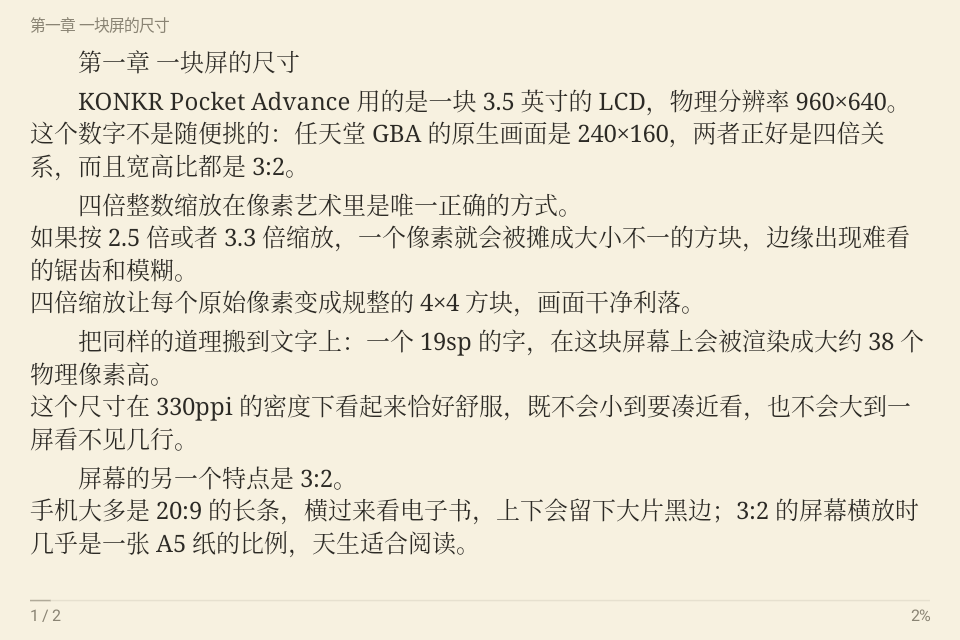
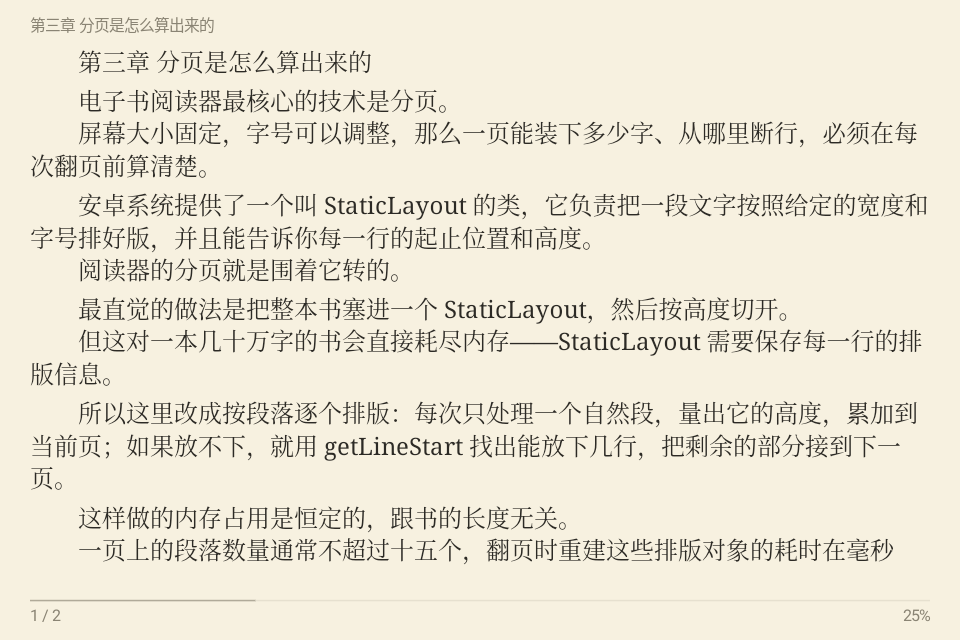
feat: 按句分段改为每句都缩进
原来只有段落首句缩进、后续句子顶格，改为每句首行都缩进两字，
更像「一句一段」。跨页续排的句中部分仍然不缩进，避免页面右缘出现阶梯状空白。

缩进判断从「块首」改为「句首」（块首或任一句末边界）。关键是排版与绘制必须
传同一个 indent 值 —— 否则算出的行高和实际绘制不一致，整页会错位，
所以 buildLayout 增加 indent 参数，PageView 绘制时传 item.indent。

Changed region(s): [[0.0312, 0.0312, 0.9688, 0.875], [0.9375, 0.9375, 0.9688, 0.9688]]

diff --git a/app/src/main/java/com/kpa/reader/doc/LayoutEngine.kt b/app/src/main/java/com/kpa/reader/doc/LayoutEngine.kt
@@ -98,19 +98,23 @@ class LayoutEngine(
      *
      * 按句分段时每句只排到自己的句末 —— 否则同一段里的句子会被整段重排一遍、
      * 在页面上叠着画出来。
+     *
+     * [indent] 决定首行是否缩进两字。**排版和绘制必须传同一个值**，
+     * 否则算出来的行高和实际画出来的对不上，页面会错位。
      */
     fun buildLayout(
         style: Int,
         blockStart: Int,
         blockEnd: Int,
         fromChar: Int,
-        toChar: Int = -1
+        toChar: Int = -1,
+        indent: Boolean = fromChar == 0
     ): StaticLayout {
         val s = (blockStart + fromChar).coerceIn(0, text.length)
         val rawEnd = if (toChar >= 0) blockStart + toChar else blockEnd
         val e = rawEnd.coerceIn(s, text.length)
         val paint = paintFor(style)
-        val cs: CharSequence = if (fromChar == 0 && style == Block.BODY && indentPx > 0.5f) {
+        val cs: CharSequence = if (indent && style == Block.BODY && indentPx > 0.5f) {
             SpannableString(text.substring(s, e)).apply {
                 if (length > 0) {
                     setSpan(
@@ -193,7 +197,10 @@ class LayoutEngine(
             }
             curEnd = curEnd.coerceIn(charIn + 1, blockLen)
 
-            val layout = buildLayout(b.style, b.start, b.end, charIn, curEnd)
+            // 句首（块首，或某个句末边界）才缩进；跨页续排的句中不缩进
+            val indentHere = (charIn == 0 || segEnds.any { it == charIn }) && b.style == Block.BODY
+
+            val layout = buildLayout(b.style, b.start, b.end, charIn, curEnd, indentHere)
             // 同一段内的后续句子紧接着上一句排，不加段间距
             val gap = if (items.isEmpty() || charIn > 0) 0f else gapBefore(b.style)
             val need = layout.height + gap
@@ -201,7 +208,7 @@ class LayoutEngine(
             val after = if (isLastSeg) gapAfter(b.style) else 0f
 
             if (y + need + after <= height) {
-                items.add(Item.TextSeg(bi, charIn, curEnd, charIn == 0 && b.style == Block.BODY, b.style, (y + gap).toInt()))
+                items.add(Item.TextSeg(bi, charIn, curEnd, indentHere, b.style, (y + gap).toInt()))
                 y += need + after
                 if (isLastSeg) { bi++; charIn = 0 } else { charIn = curEnd }
                 continue
@@ -216,7 +223,7 @@ class LayoutEngine(
             }
 
             if (fit >= layout.lineCount) {
-                items.add(Item.TextSeg(bi, charIn, curEnd, charIn == 0 && b.style == Block.BODY, b.style, (y + gap).toInt()))
+                items.add(Item.TextSeg(bi, charIn, curEnd, indentHere, b.style, (y + gap).toInt()))
                 y += need + after
                 if (isLastSeg) { bi++; charIn = 0 } else { charIn = curEnd }
                 continue
@@ -227,7 +234,7 @@ class LayoutEngine(
                 flush(bi, charIn)
                 continue
             }
-            items.add(Item.TextSeg(bi, charIn, charIn + cut, charIn == 0 && b.style == Block.BODY, b.style, (y + gap).toInt()))
+            items.add(Item.TextSeg(bi, charIn, charIn + cut, indentHere, b.style, (y + gap).toInt()))
             flush(bi, charIn + cut)
             charIn += cut
         }

diff --git a/app/src/main/java/com/kpa/reader/ui/PageView.kt b/app/src/main/java/com/kpa/reader/ui/PageView.kt
@@ -271,9 +271,9 @@ class PageView @JvmOverloads constructor(
             when (item) {
                 is LayoutEngine.Item.TextSeg -> {
                     val b = d.blocks.getOrNull(item.blockIndex) ?: continue
-                    // 必须带上 item.to：按句分段时同一块会被切成多段，
-                    // 只按块边界建 layout 会把整段重画在每一段上
-                    val layout = e.buildLayout(item.style, b.start, b.end, item.from, item.to)
+                    // 必须带上 item.to 和 item.indent：按句分段时同一块会被切成多段，
+                    // 只按块边界建 layout 会把整段重画在每一段上；缩进也必须和排版时一致
+                    val layout = e.buildLayout(item.style, b.start, b.end, item.from, item.to, item.indent)
                     texts.add(Rendered(layout, item.y))
                 }
                 is LayoutEngine.Item.Img -> imgs.add(item)

diff --git a/README.md b/README.md
@@ -67,7 +67,7 @@
 ### 阅读
 
 - **分页**：段落流式分页，中文首行缩进两字，跨页续段不重复缩进
-- **按句分段**：开关一开，长自然段拆成一句一行 —— 段落首句缩进、后续句子顶格，句间不加额外间距。
+- **按句分段**：开关一开，长自然段拆成一句一行 —— 每句都缩进两字，句间不加额外间距。
   只改排版边界不动字符，进度、书签、搜索的位置完全不受影响；标题和引用保持原样
 - **插图**：按页宽等比缩放、居中；比整页还高的图单独占一页；位图走 LruCache
 - **全文搜索**：后台扫描全书，结果带章节归属 + 上下文，关键词红色高亮，点一下跳过去
